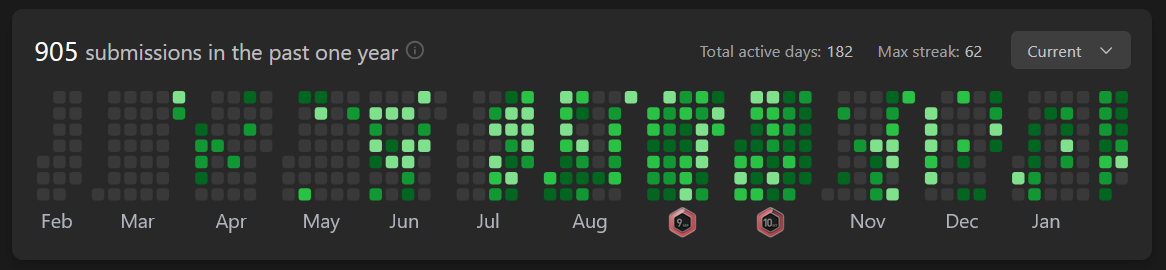
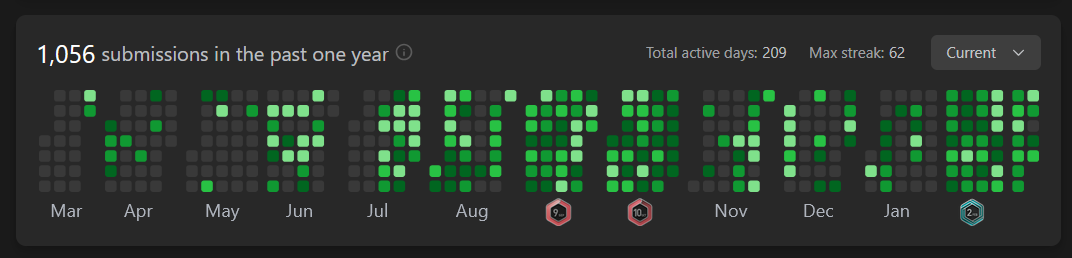
add 2 more badges and about-image

diff --git a/src/app/components/LeetCodeSection.jsx b/src/app/components/LeetCodeSection.jsx
@@ -1,10 +1,12 @@
 export default function LeetCodeSection() {
 
   const badges = [
-    { title: "100 Days Badge", img: "/images/leetcode/100days.png" },
+    { title: "100 Days 2025 Badge", img: "/images/leetcode/100days.png" },
     { title: "50 Days Badge", img: "/images/leetcode/50days.png" },
-    { title: "October Badge", img: "/images/leetcode/oct.png" },
-    { title: "September Badge", img: "/images/leetcode/sep.png" },
+    { title: "October 2025 Badge", img: "/images/leetcode/oct.png" },
+    { title: "September 2025 Badge", img: "/images/leetcode/sep.png" },
+    { title: "50 days 2026 badge", img: "/images/leetcode/50d2026.png" },
+    { title: "February 2026 Badge", img: "/images/leetcode/feb.png" },
   ];
 
   return (
